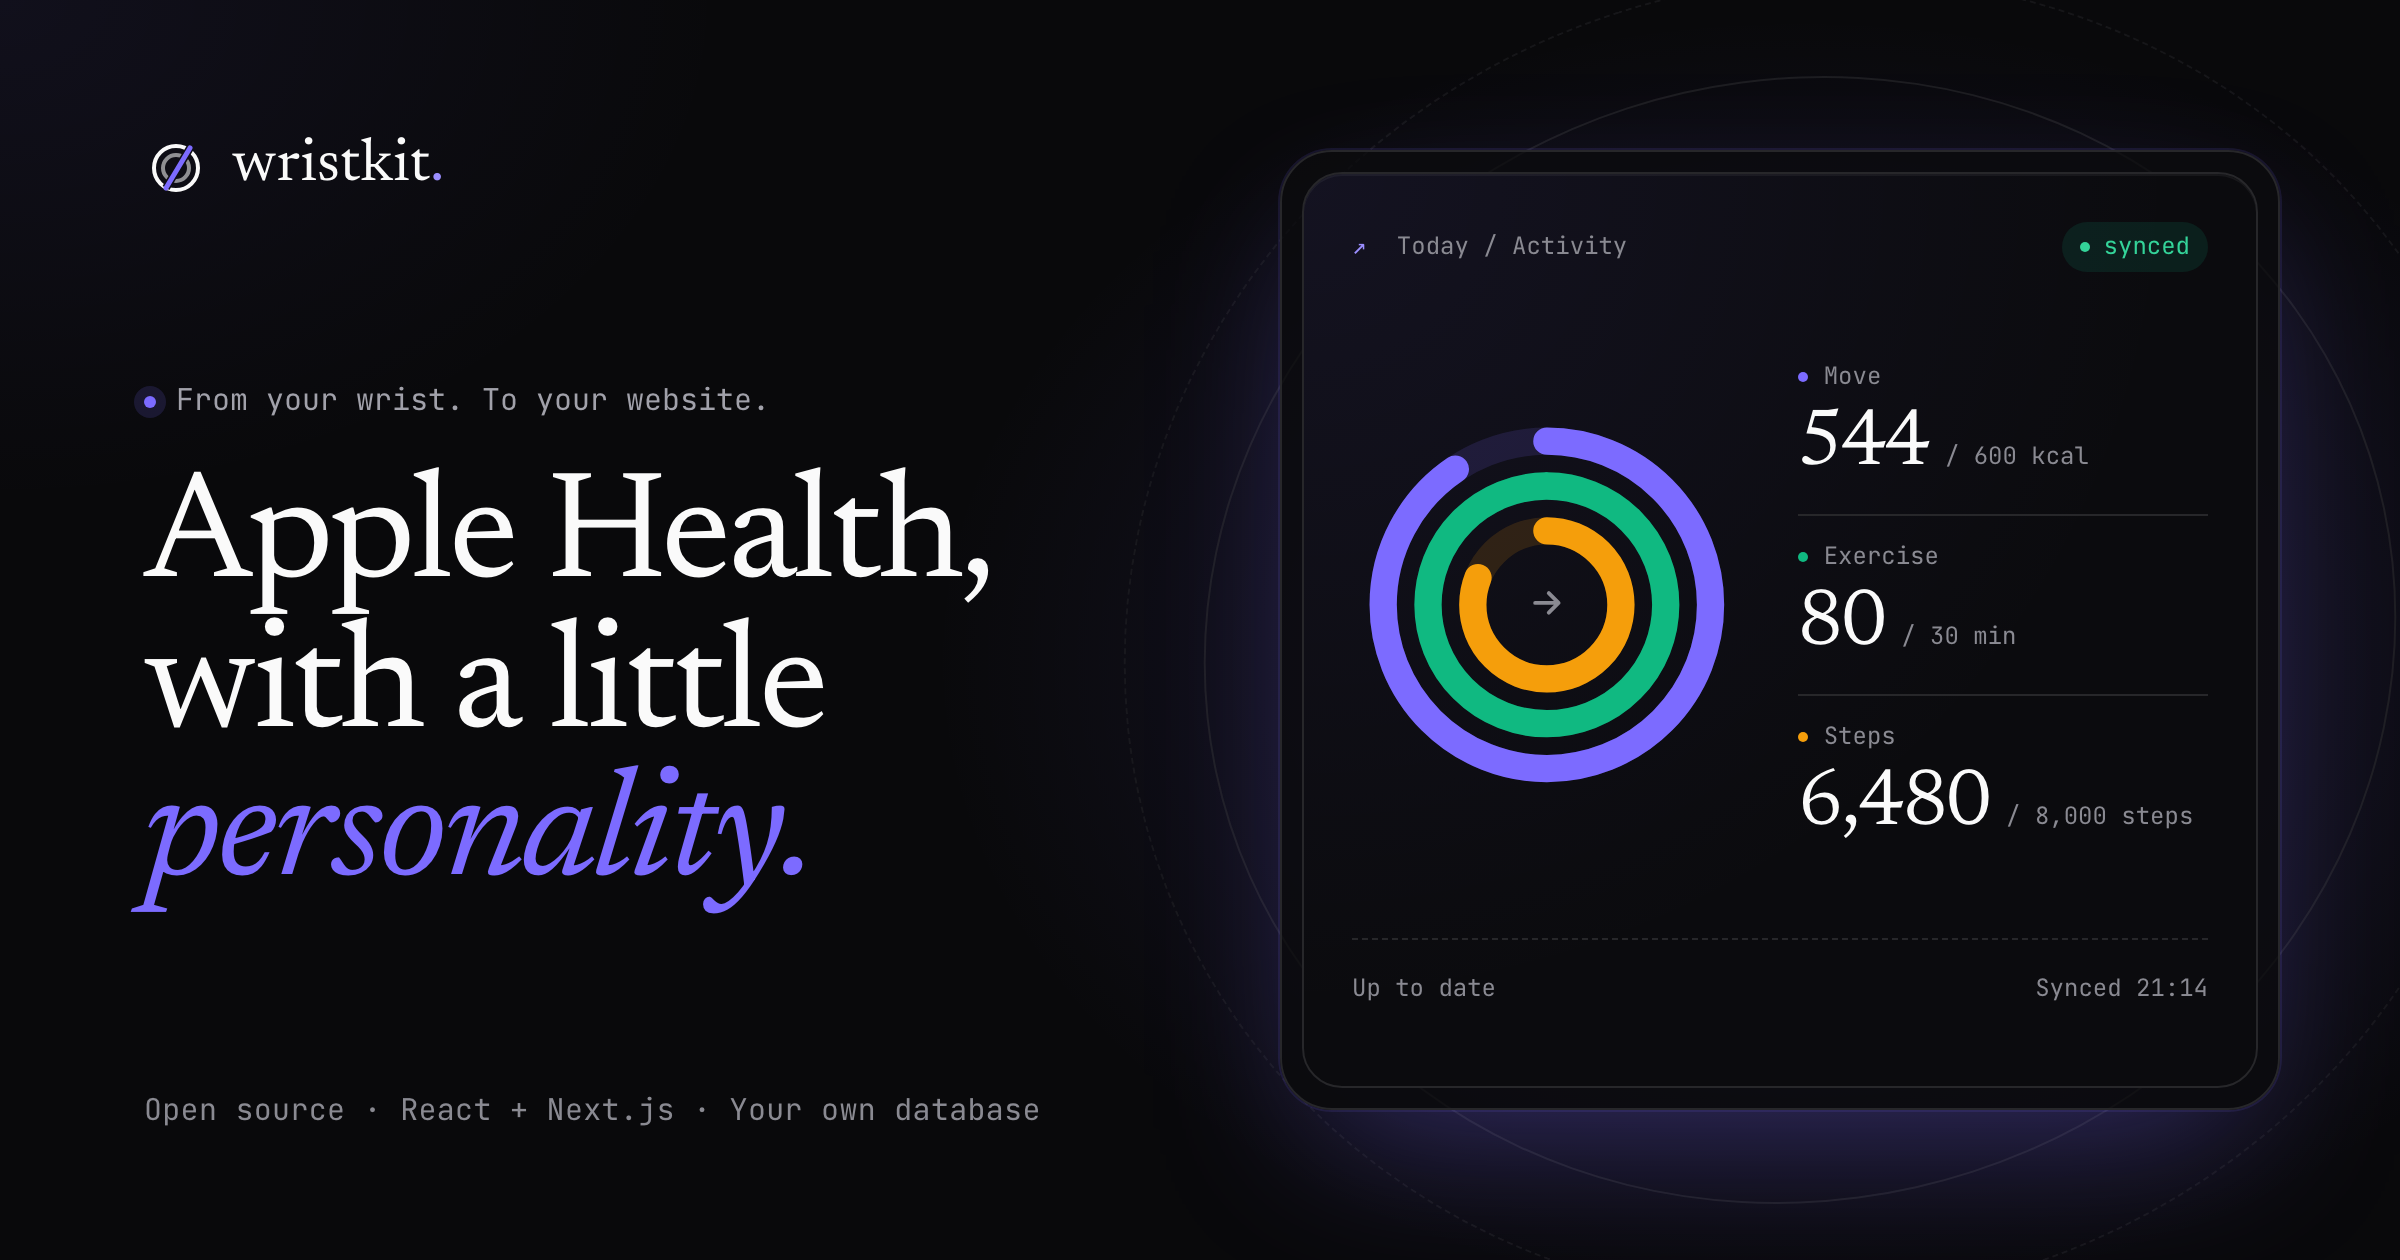
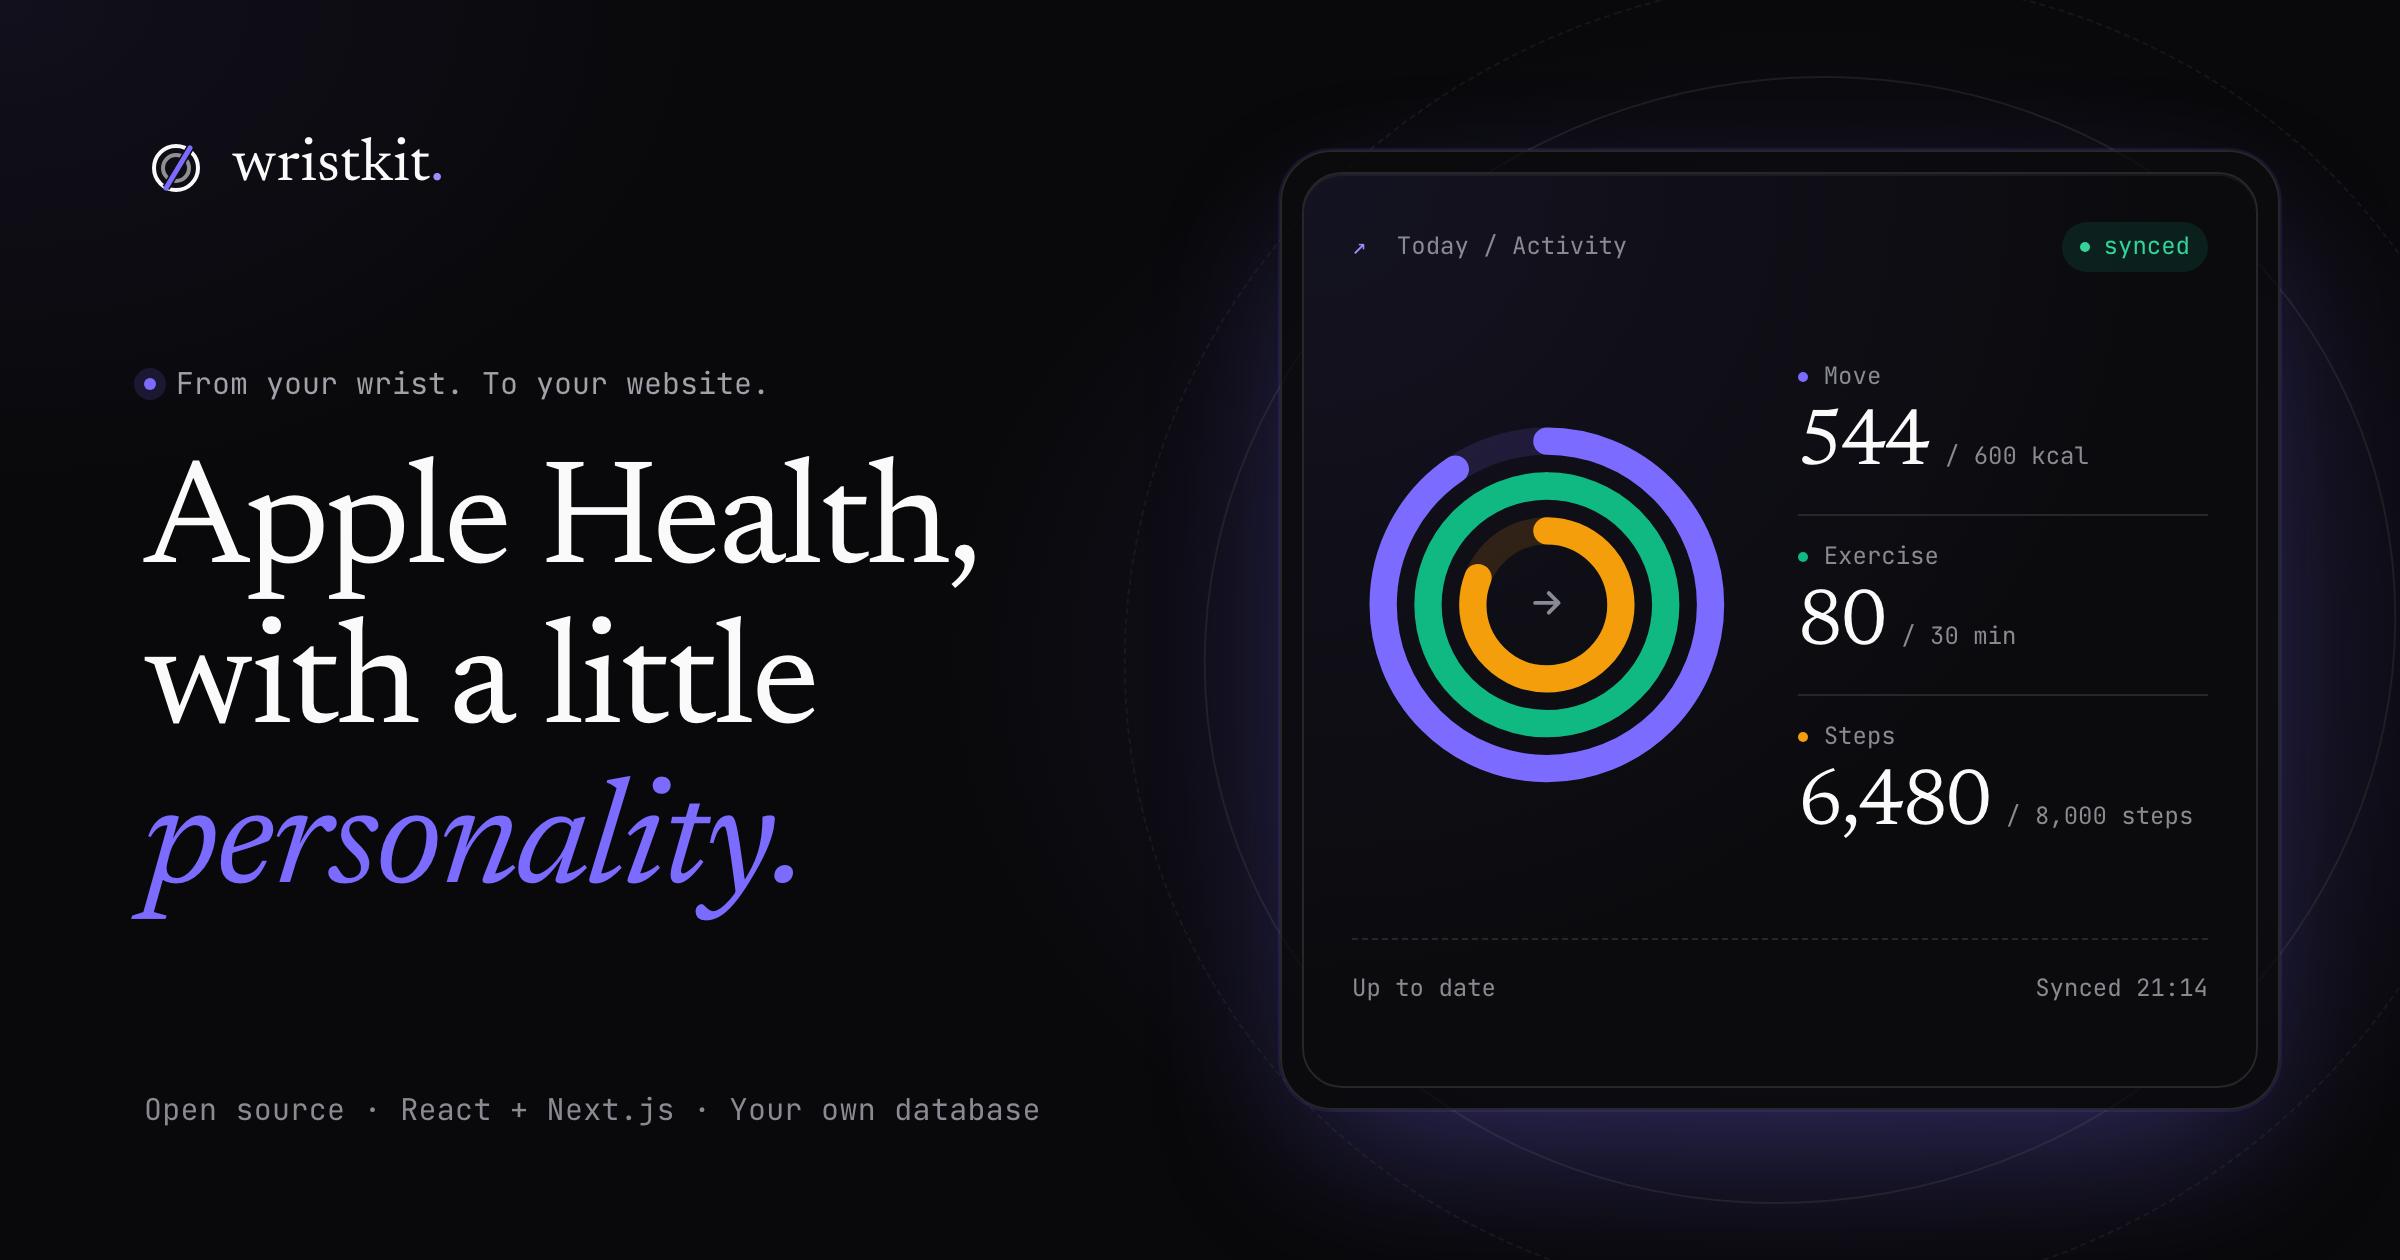
fix(web): give the hero headline room between lines
Newsreader's ascenders and descenders touched across lines at the
display steps' 0.95 leading, and a -0.04em override squeezed letter
pairs. The headline now uses 1.08 leading and the display token's
-0.02em tracking. The cover image is re-rendered to match.

Changed region(s): [[0.0625, 0.3714, 0.4375, 0.7429], [0.0625, 0.2786, 0.1875, 0.3405], [0.2188, 0.2786, 0.3125, 0.3405]]

diff --git a/apps/web/app/globals.css b/apps/web/app/globals.css
@@ -1033,7 +1033,10 @@ main:focus {
 .hero-title {
   font-weight: 400;
   margin: 0;
-  letter-spacing: -0.04em;
+  /* Newsreader's long ascenders and descenders touch across lines at the
+     display steps' 0.95-1 leading, so the three-line headline gets more air.
+     Tracking stays the display token's -0.02em. */
+  line-height: 1.08;
 }
 .hero-description {
   max-width: 410px;
